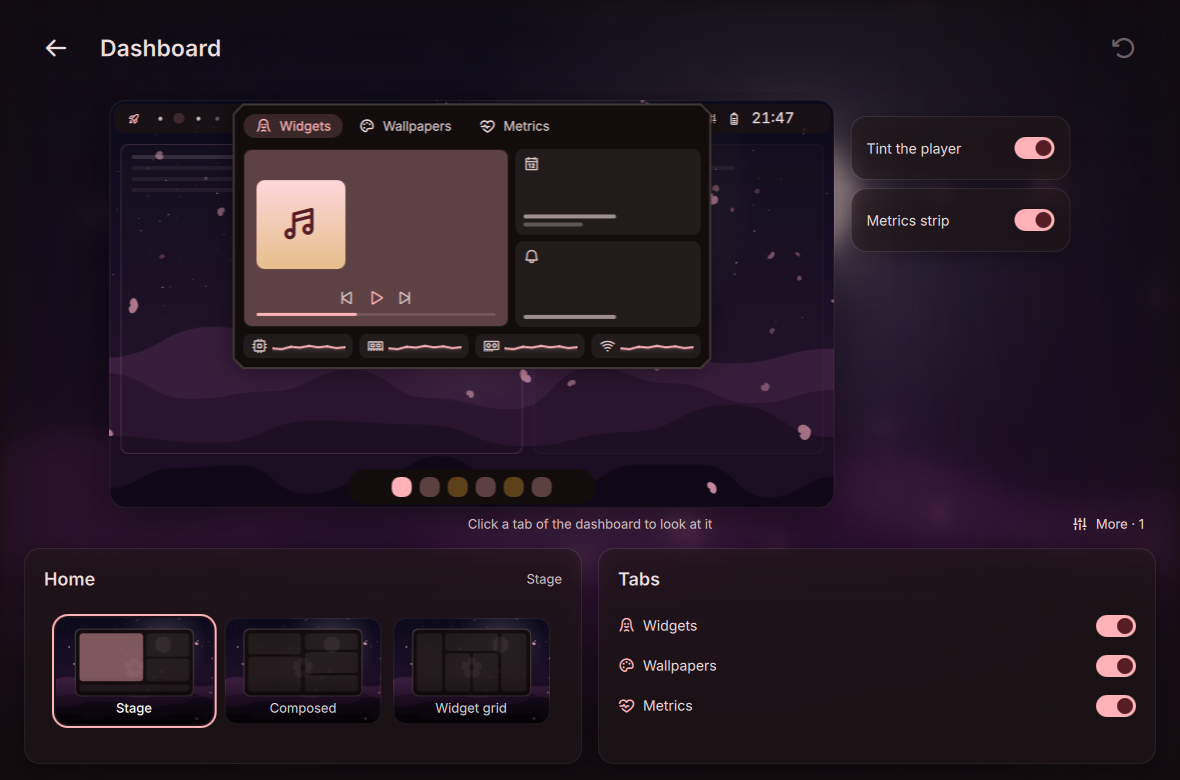
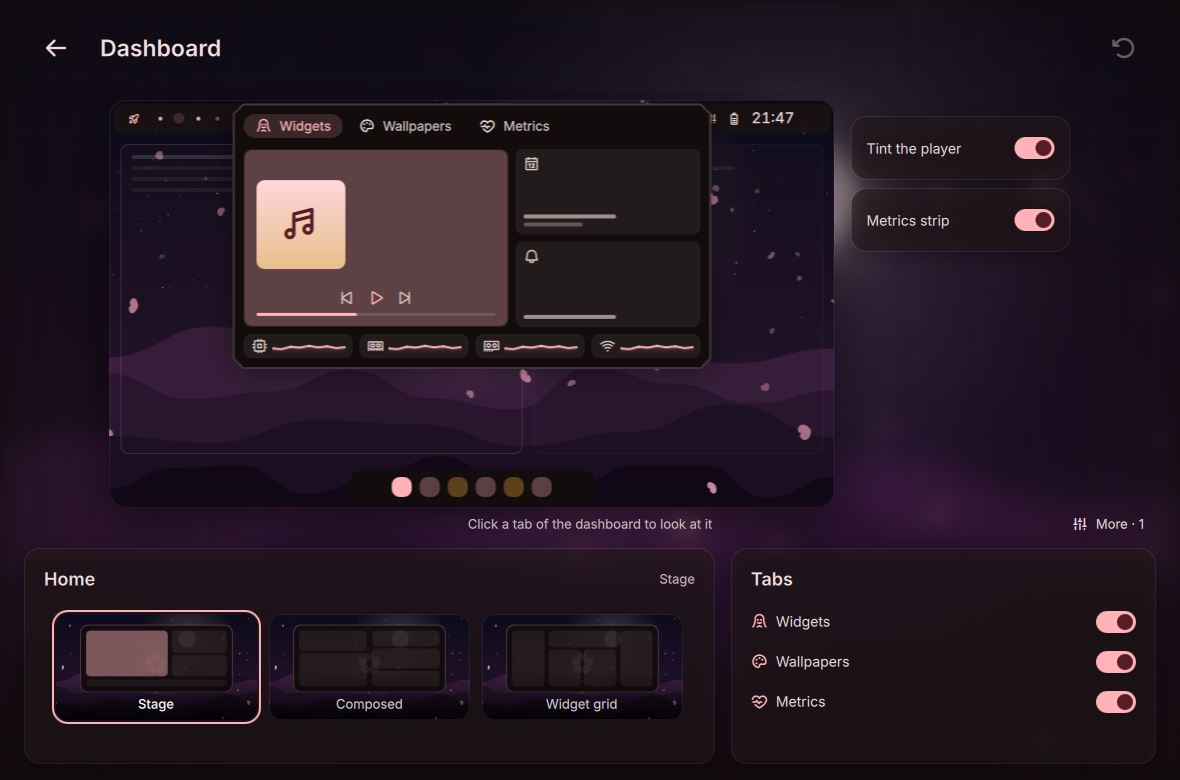
fix(settings): lint and format of the personal pages, proofs with row weights

diff --git a/modules/settings/thumbs/LauncherStyleThumb.qml b/modules/settings/thumbs/LauncherStyleThumb.qml
@@ -44,6 +44,7 @@ MiniScreen {
             Repeater {
                 model: root.value === "cards" ? 2 : 3
                 delegate: Mark {
+                    id: line
                     required property int index
                     width: box.width - root.pad * 2
                     height: root.u * (root.value === "cards" ? 9 : 5)
@@ -55,7 +56,7 @@ MiniScreen {
                         width: root.u * (root.value === "cards" ? 6 : 3.4)
                         height: width
                         radius: root.u * 1.4
-                        color: index === 0 ? Type.accent : Qt.alpha(Type.text, 0.5)
+                        color: line.index === 0 ? Type.accent : Qt.alpha(Type.text, 0.5)
                     }
                     Column {
                         x: root.u * (root.value === "cards" ? 10 : 7)
@@ -87,6 +88,7 @@ MiniScreen {
             Repeater {
                 model: 8
                 delegate: Mark {
+                    id: tile
                     required property int index
                     width: (box.width - root.pad * 2 - root.u * 1.6 * 3) / 4
                     height: width * 0.72
@@ -97,7 +99,7 @@ MiniScreen {
                         width: parent.height * 0.45
                         height: width
                         radius: root.u
-                        color: index === 0 ? Type.accent : Qt.alpha(Type.text, 0.5)
+                        color: tile.index === 0 ? Type.accent : Qt.alpha(Type.text, 0.5)
                     }
                 }
             }

diff --git a/modules/settings/mods/ModsEditor.qml b/modules/settings/mods/ModsEditor.qml
@@ -225,6 +225,8 @@ Item {
         TallCard {
             id: listCard
             objectName: "settingsSection:mods_list"
+            height: row.height
+            scrollable: page.confirmKind === ""
             width: Math.round((row.width - page.gap) / 2)
 
             ModsStatusBanner {
@@ -255,6 +257,8 @@ Item {
         TallCard {
             id: detailsCard
             objectName: "settingsSection:mods_details"
+            height: row.height
+            scrollable: page.confirmKind === ""
             x: listCard.width + page.gap
             width: row.width - x
 
@@ -275,14 +279,15 @@ Item {
         }
     }
 
-
     // A tall card of the row: its content scrolls inside, with a fade
     // at the bottom while more is below.
     component TallCard: Card {
         id: tall
         readonly property bool fixed: true
         default property alias body: inner.data
-        height: row.height
+        // the content scrolls only while no confirmation is open
+        property bool scrollable: true
+
         padding: Look.boxPadding + Space.s
 
         Item {
@@ -294,7 +299,7 @@ Item {
                 contentWidth: width
                 contentHeight: inner.implicitHeight
                 clip: true
-                interactive: page.confirmKind === "" && contentHeight > height + 1
+                interactive: tall.scrollable && contentHeight > height + 1
                 boundsBehavior: Flickable.StopAtBounds
                 Column {
                     id: inner

diff --git a/modules/settings/presets/PresetShowcase.qml b/modules/settings/presets/PresetShowcase.qml
@@ -246,6 +246,7 @@ Item {
             }
 
             Item {
+                id: stripArea
                 width: stripCard.contentWidth
                 height: stripCard.height - stripCard.padding * 2 - heading.implicitHeight - stripCard.spacing
                 readonly property real cardH: height - Space.s * 2
@@ -265,7 +266,7 @@ Item {
                         const i = root.presets.indexOf(root.shown);
                         if (i < 0 || width <= 0)
                             return;
-                        const w = flick.parent.cardW;
+                        const w = stripArea.cardW;
                         contentX = Math.max(0, Math.min(Space.m + i * (w + Space.m) - (width - w) / 2, contentWidth - width));
                     }
                     onContentWidthChanged: Qt.callLater(flick.reveal)
@@ -287,8 +288,8 @@ Item {
                                 id: card
                                 required property var modelData
                                 objectName: "presetPick:" + modelData.name
-                                width: flick.parent.cardW
-                                previewHeight: flick.parent.cardH
+                                width: stripArea.cardW
+                                previewHeight: stripArea.cardH
                                 inset: true
                                 selected: !!modelData.active
                                 title: modelData.name

diff --git a/modules/settings/editors/GreetingChips.qml b/modules/settings/editors/GreetingChips.qml
@@ -40,10 +40,12 @@ Item {
         width: root.width
         spacing: Space.s
         Repeater {
-            model: [{
+            model: [
+                {
                     "id": "",
                     "name": I18n.t("prefs.common.off")
-                }].concat((TerminalLookService.fetchPresets || []).map(p => ({
+                }
+            ].concat((TerminalLookService.fetchPresets || []).map(p => ({
                         "id": p.id,
                         "name": p.own ? I18n.t("term.fetch.preset.own") : p.name
                     })))

diff --git a/modules/settings/editors/DesktopWidgetsMore.qml b/modules/settings/editors/DesktopWidgetsMore.qml
@@ -12,7 +12,7 @@ Item {
     property var entry
     property bool seen: false
 
-    implicitHeight: loader.item ? loader.item.implicitHeight : 0
+    implicitHeight: loader.item ? (loader.item as Item).implicitHeight : 0
     onVisibleChanged: if (visible)
         root.seen = true
     Component.onCompleted: root.seen = root.visible

diff --git a/modules/settings/editors/TerminalLookEditor.qml b/modules/settings/editors/TerminalLookEditor.qml
@@ -12,7 +12,7 @@ Item {
     property var entry
     property bool seen: false
 
-    implicitHeight: loader.item ? loader.item.implicitHeight : 0
+    implicitHeight: loader.item ? (loader.item as Item).implicitHeight : 0
     onVisibleChanged: if (visible)
         root.seen = true
     Component.onCompleted: root.seen = root.visible
